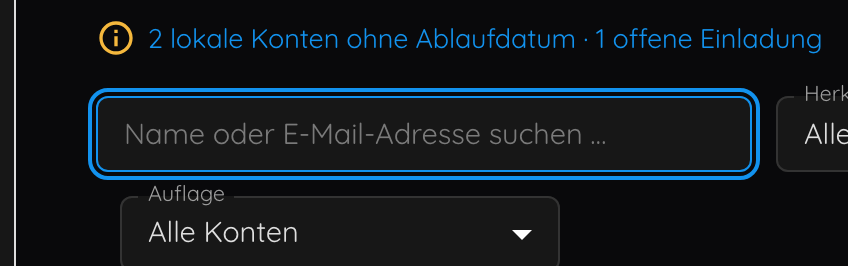
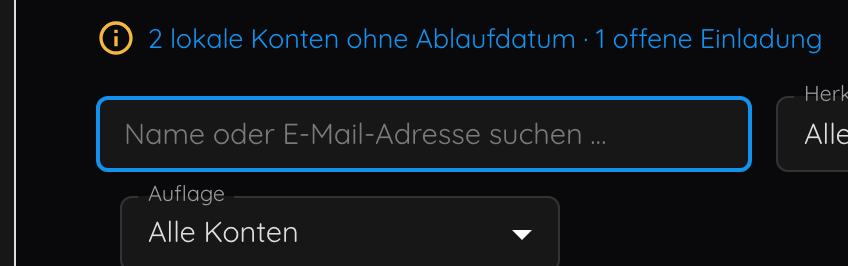
docs: Screenshots zu Feldrahmen, schwebendem Label und Chat-Eingabe

Changed region(s): [[0.092, 0.3308, 0.9198, 0.6917]]

diff --git a/README.md b/README.md
@@ -1,3 +1,3 @@
 # Screenshots zu #3242
 
-Vorher- und Nachher-Aufnahmen des Fokusrings. Dieser Branch wird nicht gemergt.
+Fokusring: vorher (main), pr-stand-1 (erste PR-Fassung mit Ring um Felder) und nachher. Dieser Branch wird nicht gemergt.
